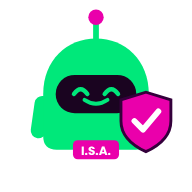
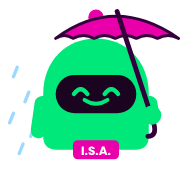
Email theme v2.6.4 (member label top right, white headline, kv wrap) + robots: headset, sorry, setup, umbrella calm
Claude-Session: https://claude.ai/code/session_014Zj55aQRpwcDRawmjXEC8J

diff --git a/docs/email/lms_email.py b/docs/email/lms_email.py
@@ -29,6 +29,11 @@ v2.6.1 (24 Oct 2026, approved by Amit: "go ahead with the black theme ... for in
   * new blocks: `items` [(tag, kind, title, note, link|None)] numbered rows with the tag pinned right (a tag that
     repeats the card's own tag is dropped), and `tiles` [(label, value, note)] in the website dashboard's tile style;
   * LMS_BRAND / LMS_LOGO added; solid_tag(label, kind) for callers that build their own rows.
+v2.6.4 (24 Oct 2026, Amit's review of the member emails) — additive and opt-in: render(label="Daily digest") puts the logo
+  top left and that label top right with no wordmark (member emails, like the internal notices); the headline is always
+  white (a gain is said in the green subtitle, not the headline); key/value labels wrap with a gap before the value, and a
+  "\n" in a label is a line break; new moods headset (helpdesk), sorry (a person will reply), setup (setup check); the
+  calm robot now holds an umbrella (a quieter day) instead of the shield.
 v2.6.3 (24 Oct 2026) — the robot is part of the brand: a render with no mood gets the calm robot (up robot when
   tone="up"), tagged for its project; mood=False opts out. Renders that pass a mood are unchanged.
 v2.6.2 (24 Oct 2026, Amit chose option C) — Day Trade Lab gets its own logo (the robot with a lab flask, D.T.L. tag,
@@ -93,7 +98,8 @@ SBH_BRAND = ("S", "Stock Boom", "Hunter", "https://myrobotisa.com/email/sbh-robo
 # callers keep working; the original robot-steady.png / robot-flat.png images stay on the site for emails already sent.
 _E = "https://myrobotisa.com/email/"
 MOODS = {"up": _E + "robot-up.png", "milestone": _E + "robot-milestone.png", "calm": _E + "robot-calm.png",
-         "quiet": _E + "robot-quiet.png", "yourturn": _E + "robot-yourturn.png", "paused": _E + "robot-paused.png"}
+         "quiet": _E + "robot-quiet.png", "yourturn": _E + "robot-yourturn.png", "paused": _E + "robot-paused.png",
+         "headset": _E + "robot-headset.png", "sorry": _E + "robot-sorry.png", "setup": _E + "robot-setup.png"}
 MOODS["steady"], MOODS["flat"] = MOODS["calm"], MOODS["quiet"]
 # v2.5 (23 Oct 2026): Stock Boom Hunter emails use the same robots with an S.B.H. tag (myrobotisa.com/email/sbh/);
 # render() swaps them in automatically whenever the brand is SBH_BRAND.
@@ -170,7 +176,7 @@ def _prose(prose) -> str:
 def _kv(pairs) -> str:
     rows = "".join(
         f'<tr><td style="padding:7px 0;font-size:12px;font-weight:800;letter-spacing:.1em;text-transform:uppercase;'
-        f'color:{MUTED};font-family:{FONT_STACK};width:44%;vertical-align:top;">{esc(k)}</td>'
+        f'color:{MUTED};font-family:{FONT_STACK};width:44%;vertical-align:top;padding-right:14px;">{esc(k).replace(chr(10), "<br>")}</td>'
         f'<td style="padding:7px 0;font-size:15px;font-weight:700;color:{INK};font-family:{FONT_STACK};">{esc(v)}</td></tr>'
         for k, v in pairs)
     return f'<table role="presentation" width="100%" cellpadding="0" cellspacing="0">{rows}</table>'
@@ -399,7 +405,8 @@ def _render_core(title: str, eyebrow_text: str, subtitle: str, blocks: list[dict
            mood: str | None = None,
            internal: bool = True,
            tone: str | None = None,
-           badge: str | None = None) -> str:
+           badge: str | None = None,
+           label: str | None = None) -> str:
     # v2.5: badge overrides the green pill's text (default "Internal"), e.g. "Stock Boom Hunter" on the engine's own emails.
     b = tuple(brand) if brand else ((eyebrow_text.strip()[:1] or "R").upper(), eyebrow_text, "")
     tile, word, suffix = b[0], b[1], b[2]
@@ -408,7 +415,17 @@ def _render_core(title: str, eyebrow_text: str, subtitle: str, blocks: list[dict
     logo = b[3] if len(b) > 3 else None
     suffix_html = ('' if word.endswith('.') else ' ') + '<span style="color:%s">%s</span>' % (PINK, esc(suffix)) if suffix else ""
     stacked = len(word + suffix) > 14   # v2.5.2 (Amit): a long name (Stock Boom Hunter) stays on ONE line, a touch smaller, never wrapping
-    if len(b) > 4 and b[4] == "internal":
+    if label and not (len(b) > 4 and b[4] == "internal"):
+        # v2.6.4: member emails with a label: logo top left, what the email is for top right, no wordmark.
+        left = (f'<img src="{esc(logo)}" width="40" height="40" alt="{esc(word)}" style="display:block;width:40px;height:40px;border-radius:11px;border:2px solid {GREEN};">'
+                if logo else f'<span style="font-family:{HEAD_STACK};font-size:22px;text-transform:uppercase;color:{INK};">{esc(word)}{suffix_html}</span>')
+        brand_row = (
+            f'<table role="presentation" width="100%" cellpadding="0" cellspacing="0" style="width:100%;margin:0 0 16px;"><tr>'
+            f'<td style="vertical-align:middle;">{left}</td>'
+            f'<td align="right" style="vertical-align:middle;text-align:right;white-space:nowrap;"><span style="display:inline-block;padding:6px 12px;'
+            f'border-radius:999px;background:{GREEN};background-color:{GREEN};color:{ON_GREEN};font-size:12px;font-weight:900;letter-spacing:.12em;'
+            f'text-transform:uppercase;font-family:{FONT_STACK};white-space:nowrap;">{esc(label)}</span></td></tr></table>')
+    elif len(b) > 4 and b[4] == "internal":
         # v2.6.1 (Amit, 24 Oct 2026): internal notices carry the project's logo top left and the INTERNAL NOTICE tag top
         # right; no wordmark (the logo, the sender and the eyebrow already say which project it is).
         badge_html = (f'<span style="display:inline-block;padding:5px 10px;border-radius:999px;background:{GREEN};background-color:{GREEN};'
@@ -442,7 +459,7 @@ def _render_core(title: str, eyebrow_text: str, subtitle: str, blocks: list[dict
     header = panel(
         f'<tr><td style="padding:24px 26px;">{eyebrow(eyebrow_text)}'
         f'<div style="font-family:{HEAD_STACK};font-size:32px;font-weight:400;letter-spacing:.01em;text-transform:uppercase;'
-        f'line-height:1.08;color:{GREEN if tone == "up" else INK};margin:0 0 8px;">{esc(title)}</div>'
+        f'line-height:1.08;color:{INK};margin:0 0 8px;">{esc(title)}</div>'
         f'<div style="font-size:14px;color:{MUTED};font-family:{FONT_STACK};">{_segments(subtitle)}</div></td>{mood_td}</tr>')
     cards = "".join(_block_html(b) for b in blocks)
     btns = (f'<div style="margin:4px 0 6px;">' + "".join(button(*b) for b in buttons) + "</div>") if buttons else ""
@@ -529,7 +546,7 @@ def _project_of(brand, eyebrow_text):
 
 
 def render(title, eyebrow_text, subtitle, blocks, cta=None, footnote=None, brand=None, buttons=None, mood=None,
-           internal=True, tone=None, badge=None, scheme=None):
+           internal=True, tone=None, badge=None, scheme=None, label=None):
     # v2.6.3 (Amit, 24 Oct 2026: "the robot graphic is part of the brand and should be written into the theme"):
     # every email carries a robot. A caller that names no mood gets the up robot on an up day, otherwise the calm one;
     # the project tag (I.S.A., S.B.H., L.M.S., D.T.L.) is swapped in below as before. mood=False opts out explicitly.
@@ -541,7 +558,7 @@ def render(title, eyebrow_text, subtitle, blocks, cta=None, footnote=None, brand
         scheme = "internal" if internal else "night"
     if scheme != "internal":
         return _render_core(title, eyebrow_text, subtitle, blocks, cta=cta, footnote=footnote, brand=brand, buttons=buttons,
-                            mood=mood, internal=internal, tone=tone, badge=badge)
+                            mood=mood, internal=internal, tone=tone, badge=badge, label=label)
     proj = _project_of(brand, eyebrow_text)
     base = {"sbh": SBH_BRAND, "mri": MRI_BRAND, "lms": LMS_BRAND, "dtl": DTL_BRAND}.get(proj) or tuple(brand or ((eyebrow_text.strip()[:1] or "R").upper(), eyebrow_text, ""))
     logo = base[3] if len(base) > 3 else None
